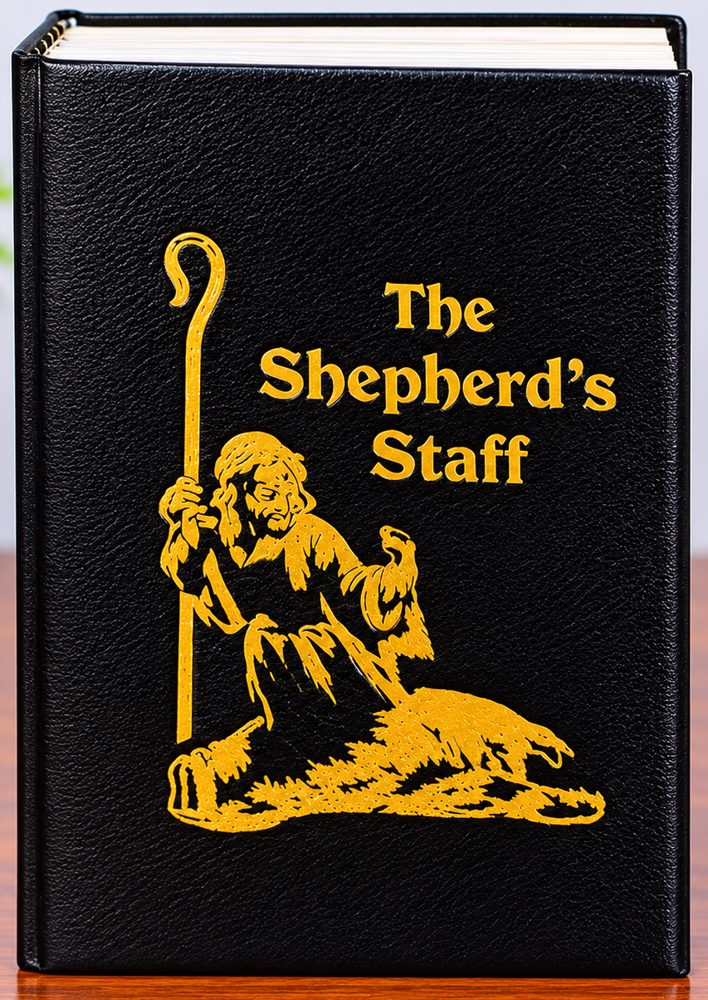
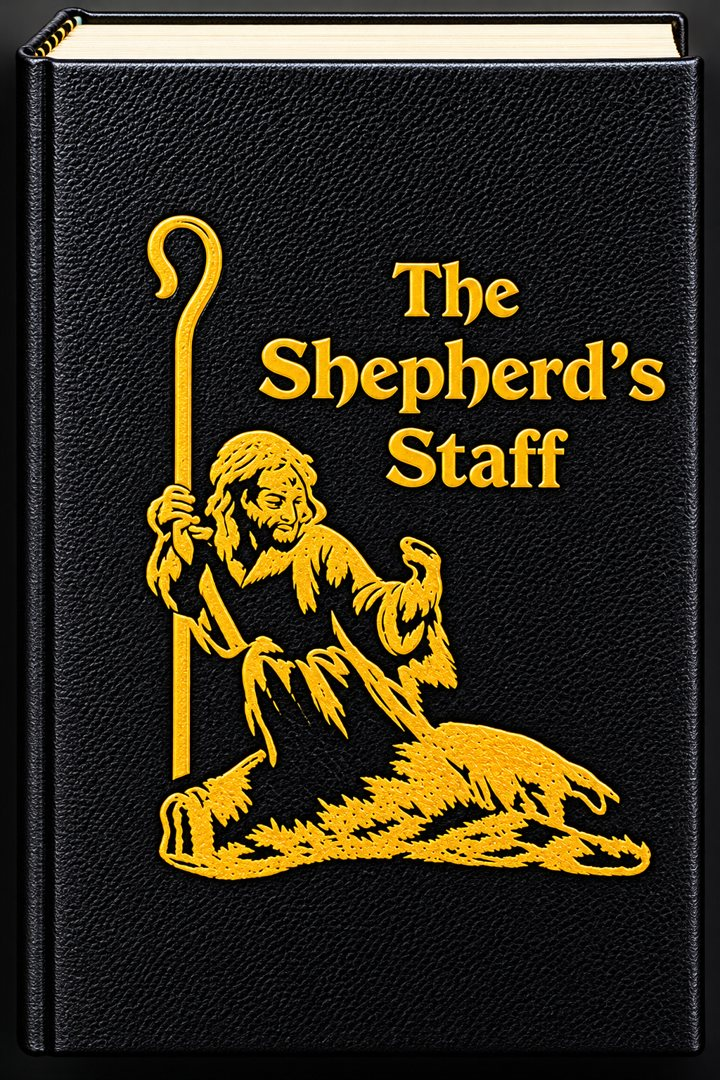
Library: use the uncropped cover image
Claude-Session: https://claude.ai/code/session_01Enn9Tgf2rvCnsDukG9n9in

diff --git a/app/app.js b/app/app.js
@@ -273,7 +273,7 @@ function hl(text, q) {
 async function viewStaff() {
   $('#view').innerHTML = skeleton('Opening the library…');
   try { if (!await loadStaff()) return; } catch (e) { $('#view').innerHTML = `<p class="warn">Could not load the library: ${esc(e.message)}</p>`; return; }
-  $('#view').innerHTML = `<div class="bookhead"><img class="cover" src="shepherds-staff-cover.jpg" width="708" height="1000" alt="The Shepherd’s Staff — book cover">
+  $('#view').innerHTML = `<div class="bookhead"><img class="cover" src="shepherds-staff-cover.jpg" width="720" height="1080" alt="The Shepherd’s Staff — book cover">
     <div><h2 style="margin:.2em 0">The Shepherd’s Staff</h2>
     <div class="hint">Ralph Mahoney (ed.), World MAP · ${spages.length} pages · full-text search</div></div></div>
     <input id="sq" type="search" placeholder="Search the book (use “quotes” for an exact phrase)" autocomplete="off" enterkeyhint="search" value="${esc(staffQuery)}">
@@ -307,7 +307,7 @@ async function viewStaffPage(n, q) {
     <span><a href="#/staff" onclick="staffQuery=${esc(JSON.stringify(q))}">☰ Search</a> <button id="smaller">A−</button> <button id="bigger">A+</button></span>
     <a href="#/staff/p/${Math.min(spages.length, n + 1)}${qs}">${Math.min(spages.length, n + 1)} ›</a></div>
     <div class="meta">${esc(d ? d.title : '')} · page ${n} of ${spages.length}</div>
-    ${n === 1 ? '<figure class="frontcover"><img class="cover" src="shepherds-staff-cover.jpg" width="708" height="1000" alt="The Shepherd’s Staff — book cover"><figcaption class="muted">The Shepherd’s Staff · Ralph Mahoney (ed.), World MAP</figcaption></figure>' : ''}
+    ${n === 1 ? '<figure class="frontcover"><img class="cover" src="shepherds-staff-cover.jpg" width="720" height="1080" alt="The Shepherd’s Staff — book cover"><figcaption class="muted">The Shepherd’s Staff · Ralph Mahoney (ed.), World MAP</figcaption></figure>' : ''}
     <div class="prose" style="font-size:var(--fs);line-height:1.5;margin-top:10px">${body}</div></article>`;
   $('#bigger').onclick = () => { fs = Math.min(40, fs + 2); store.set('fs', fs); renderShell(); };
   $('#smaller').onclick = () => { fs = Math.max(14, fs - 2); store.set('fs', fs); renderShell(); };

diff --git a/app/sw.js b/app/sw.js
@@ -1,4 +1,4 @@
-const V='hymnal-v7', DATA='hymnal-data';
+const V='hymnal-v8', DATA='hymnal-data';
 // The database is private: never precached, cached only after a successful signed-in download, and kept across versions.
 const FILES=['./','index.html','app.js','config.js','style.css','manifest.webmanifest','icon.svg','shepherds-staff-cover.jpg','vendor/sql-wasm.js','vendor/sql-wasm.wasm'];
 self.addEventListener('install',e=>{e.waitUntil(caches.open(V).then(c=>c.addAll(FILES)).then(()=>self.skipWaiting()))});
